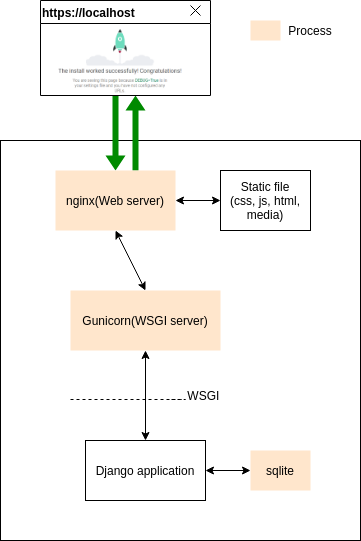
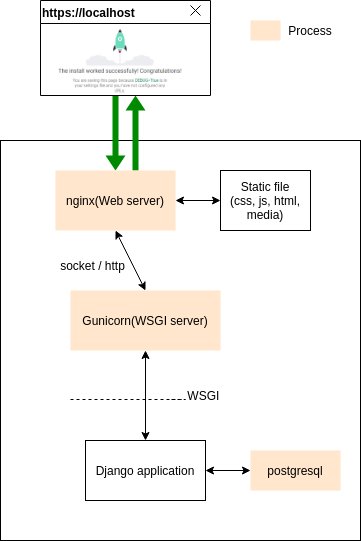
포스트추가

Changed region(s): [[0.7313, 0.8281, 0.9446, 0.9168], [0.1524, 0.4732, 0.3657, 0.5028]]

diff --git a/_layouts/category.html b/_layouts/category.html
@@ -8,7 +8,12 @@ layout: page
 
 <ul class="posts-list">
   {% assign category = page.category | default: page.title %}
-  {% for post in site.categories[category] %}
+  {% if page.sort_by_title %}
+  {% assign post_list = site.categories[category] | sort: "title" %}
+  {% else %}
+  {% assign post_list = site.categories[category] %}
+  {% endif %}
+  {% for post in post_list %}
     <li>
       <h3>
         <a href="{{ post.url | relative_url }}">

diff --git a/_posts/2020-05-10-gunicorn.md b/_posts/2020-05-10-gunicorn.md
@@ -1,6 +1,6 @@
 ---
 layout: post
-title: Django와 WSGI 서버(Gunicorn) 연동
+title: 2. Django와 WSGI 서버(Gunicorn) 연동
 categories: [Architecture]
 excerpt_separator:  <!--more-->
 tags: 
@@ -11,6 +11,9 @@ WSGI(Web Server Gateway Interface)란 웹서버와 python 애플리케이션 간
 
 Gunicorn은 WSGI server 중 하나로 웹서버로부터 요청을 받아 Django application을 수행하는 역할을 한다. 비슷한 역할을 하는 WSGI server에는 uWSGI, mod_wsgi 등이 있다.
 
+***
+### Gunicorn 설치 및 실행하기
+<br />
 Gunicorn은 python 패키지이므로 우선 pip로 install한다.
 {% highlight bash %}
 $ pip install gunicorn
@@ -29,11 +32,51 @@ $ cd django_sample
 $ gunicorn --bind 0.0.0.0:8000 --workers 9 app.wsgi
 {% endhighlight %}
 <!--more-->
-Gunicorn을 실행할 때 http 대신 socket을 통해 통신하도록 하려면 bind option을 수정해주면 된다. 또한 service로 등록해서 사용할 수도 있다.
+Gunicorn을 실행할 때 http 대신 socket을 통해 통신하도록 하려면 bind option을 수정해주면 된다.
 Gunicorn 실행 후 process를 검색해보면(`$ ps -ef | grep gunicorn`) 9개의 worker와 1개의 master 프로세스가 뜬 것을 확인할 수 있다.
 
 이제 localhost:8000으로 접속하면 Django의 첫화면이 뜨게된다.
 
 Gunicorn 프로세스는 8000번 포트에서 http 요청을 listening하고 있고, 요청이 오면 master process가 적절한 worker process에게 요청을 할당한다. 요청을 전달받은 worker process는 Django의 wsgi.py 파일을 찾아 Django application을 호출하여 로직을 수행한다.
 
+<br />
 ![_config.yml]({{ site.baseurl }}/assets/images/django-gunicorn.png)
+
+
+***
+ 
+### Gunicorn을 service로 등록하기
+<br />
+Gunicorn을 service로 등록해서 재부팅시에도 자동으로 실행되도록 설정해보자.
+우선 gunicorn service file을 생성(`$ vim /etc/systemd/system/gunicorn.service`)한 뒤 아래의 내용을 채워넣는다. 직접 수정해야하는 부분은 User, WorkingDirectory, ExecStart 항목이다.
+
+- ${사용자 이름}: `$ whoami`
+- ${Django project path}: manage.py가 있는 directory의 path
+- ${Gunicorn binary path}: `$ whereis gunicorn`
+
+{% highlight vim %}
+[Unit]
+Description=gunicorn daemon
+After=network.target
+
+[Service]
+User=${사용자 이름}
+Group=www-data
+WorkingDirectory=${Django project path}
+ExecStart=${gunicorn binary path} --workers 9 --bind 0.0.0.0:8000 app.wsgi:application --timeout 600
+
+[Install]
+WantedBy=multi-user.target
+{% endhighlight %}
+
+> timeout이 짧으면(default: 30s) 용량이 큰 파일을 업로드하는 등의 동작을 하다가 Connection이 끊기기 때문에 충분히 늘려준다.
+
+service 파일을 작성했으면 아래의 명령어를 이용해 service를 시작하면 된다.
+
+{% highlight bash %}
+$ sudo systemctl start gunicorn
+$ sudo systemctl enable gunicorn
+{% endhighlight %}
+
+service가 제대로 시작했는지 `$ systemctl status gunicorn` 로 확인해본다.
+이제 재부팅을 해도 gunicorn process가 자동으로 뜨게 된다.

diff --git a/_posts/2020-05-14-postgres.md b/_posts/2020-05-14-postgres.md
@@ -1,0 +1,83 @@
+---
+layout: post
+title: Django에 postgres연동하기
+categories: [Django]
+tags: 
+  - database
+  - Django
+excerpt_separator:  <!--more-->
+---
+
+postgresql은 오픈소스 데이터베이스다.
+
+### postgresql 설치
+
+{% highlight bash %}
+$ sudo apt-get install postgresql postgresql-contrib
+{% endhighlight %}
+
+우선 postgres user로 접속한다음에 psql 클라이언트를 실행한다.
+
+{% highlight bash %}
+$ sudo -i -u postgres psql
+{% endhighlight %}
+
+psql 클라이언트의 prompt로 접속했으면 DB와 유저를 생성한다. ${user}, ${password}, ${db_name}은 원하는 값으로 설정해준다.
+{% highlight bash %}
+postgres# CREATE USER ${user} PASSWORD '${password}';
+postgres# CREATE DATABASE ${db_name} ENCODING 'utf-8';
+postgres# ALTER DATABASE ${db_name} OWNER TO ${user};
+{% endhighlight %}
+
+> pytest가 잘 동작하지 않으면 `postgres# ALTER USER {user} CREATEDB;` sql을 수행해본다.
+<!--more-->
+
+***
+### django에 postgresql 연동하기(with dotenv)
+<br />
+postgresql 접속정보는 dotenv로 관리할 것이다. dotenv는 Django가 실행될때 환경변수 파일에 대한 설정값이 들어있는 파일을 읽어 OS에 등록해주는 역할을 수행한다.
+
+postgresql접속을 위한 client도 설치해준다.
+
+{% highlight bash %}
+$ sudo apt-get install python-dotenv psycopg2
+{% endhighlight %}
+
+BASE_DIR(manage.py가 있는 위치)에 아래와 같은 내용의 .env파일을 생성한다.
+${user}, ${password}, ${db_name}은 postgresql에서 생성한 값으로 설정해준다. test를 하는 경우 test용 db를 따로 만들어서 관리하는게 좋다. ${host}는 postgresql이 위치한 주소를 입력해준다. local에 설치한경우 localhost를 지정하면 된다.
+
+{% highlight vim %}
+# .env 파일
+DB_USER=${user}
+DB_PASSWORD=${password}
+DB_NAME=${db_name}
+DB_TEST=${test_db_name}
+DB_HOST=${host}
+{% endhighlight %}
+
+setting.py의 DATABASES 변수에 postgresql server정보를 입력한다. 기존 sqlite에 대한 내용은 삭제한다.
+{% highlight python %}
+from dotenv import load_dotenv
+
+load_dotenv(dotenv_path=os.path.join(BASE_DIR, '.env'), encoding='utf-8')
+
+DATABASES = {
+	'default' : {
+		'ENGINE': 'django.db.backends.postgresql',
+		'NAME': os.getenv('DB_NAME', ''),
+		'USER': os.getenv('DB_USER', ''),
+		'PASSWORD': os.getenv('DB_PASSWORD', ''),
+		'HOST': os.getenv('DB_HOST', ''),
+		'PORT': '5432',
+		'TEST': {
+			'NAME': os.getenv('DB_TEST', ''),
+		},
+	}
+}
+{% endhighlight %}
+
+DB에 migrations해본다.
+{% highlight bash %}
+$ python manage.py makemigrations
+$ python manage.py migrate
+{% endhighlight %}

diff --git a/_posts/2019-04-04-mysql.md b/_posts/2019-04-04-mysql.md
@@ -8,7 +8,7 @@ tags:
   - Django
 ---
 
-## mysql 설치
+### mysql 설치
 Database는 linux에 mysql server를 설치하여 관리할 것이다.
 
 {% highlight bash %}
@@ -17,7 +17,8 @@ $ sudo mysql_secure_installtion
 $ service mysql start
 {% endhighlight %}
 mysql을 설치하고 server를 가동하고 mysql의 command line client를 실행했다
-mysqladmin을 이용하여 root암호를 설정해준다. 만약 'Access denied for user 'root@localhost'가 뜨면 sudo를 붙여준다
+mysqladmin을 이용하여 root암호를 설정해준다.
+
 {% highlight bash %}
 $ sudo mysqladmin -u root -p password
 {% endhighlight %}
@@ -32,20 +33,19 @@ mysql> quit;
 $ sudo mysql -u woosung -p meeting
 {% endhighlight %}
 
-## django에 mysql 연동하기
+***
+
+### django에 mysql 연동하기
+<br />
 우선 mysqlclient package를 설치한다.
 {% highlight bash %}
 $ sudo apt-get install libmysqlclient-dev
 $ workon py1
 (py1) $ pip install mysqlclient
 {% endhighlight %}
-* 만약 error발생하면(python3을 따로 repository추가해서 다운한경우) 아래 명령어 수행
-{% highlight bash %}
-$sudo apt-get install python3.6-dev
-{% endhighlight %}
 
+server로그인 정보는 보안을 위해 따로 file로 관리한다. 이번 포스트에서는 conf파일을 만들어서 관리하는 방법을 알아본다.
 
-server로그인 정보는 보안을 위해 따로 file로 관리한다.
 {% highlight bash %}
 $ vim $PROJECT_HOME/mysql.cnf
 {% endhighlight %}
@@ -76,7 +76,7 @@ DATABASES = {
 제대로 연동됐는지 확인해본다
 {% highlight bash %}
 $ cd $PROJECT_HOME
-$ python manage.py runserver 8080 //default는 8000
+$ python manage.py runserver
 {% endhighlight %}
 
 이제 admin 페이지로 접속해본다. 접속하기전에 django와 관련된 기본 table들을 생성하고 super user를 만든다.

diff --git a/_posts/2020-05-13-docker.md b/_posts/2020-05-13-docker.md
@@ -1,0 +1,23 @@
+---
+layout: post
+title: 4. Docker로 구성하기
+categories: [Architecture]
+excerpt_separator:  <!--more-->
+---
+
+docker를 설치하고 현재 사용자에게 권한을 준다(기본 root권한 필요)
+
+{% highlight bash %}
+$ curl -fsSL https://get.docker.com/ | sudo sh 
+$ sudo usermod -aG docker $USER
+{% endhighlight %}
+
+netstat -anp | grep 5432
+$ docker run -d -p 5432:5432 --name pgsql -e POSTGRES_PASSWORD=mypassword postgres
+
+{% highlight bash %}
+$ docker container ls -a
+$ docker images
+$ docker stop ${docker container id}
+$ docker restart ${docker container id}
+{% endhighlight %}

diff --git a/category/architecture.md b/category/architecture.md
@@ -2,6 +2,7 @@
 layout: category
 title: Architecture
 sidebar_sort_order: 3
+sort_by_title: true
 ---
 
 서버를 구축하는 방법
